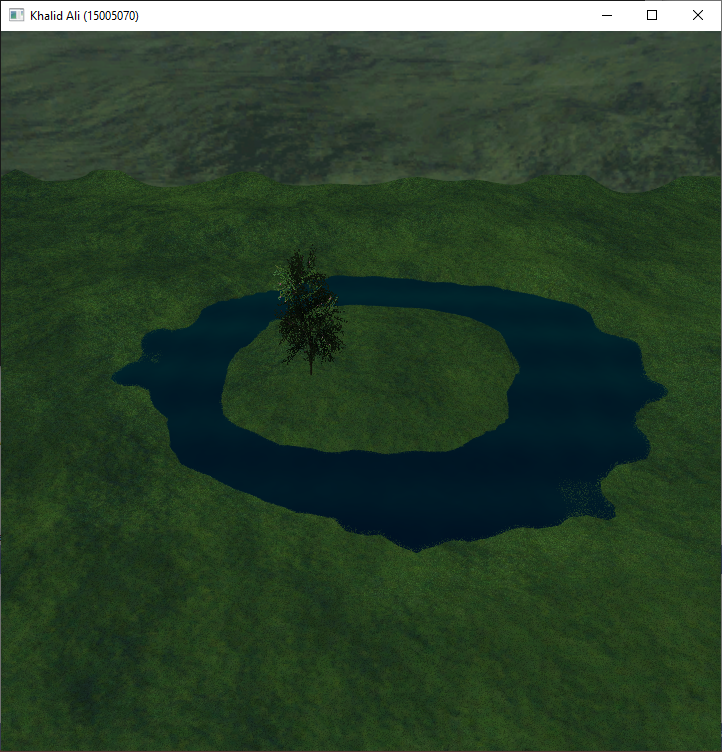
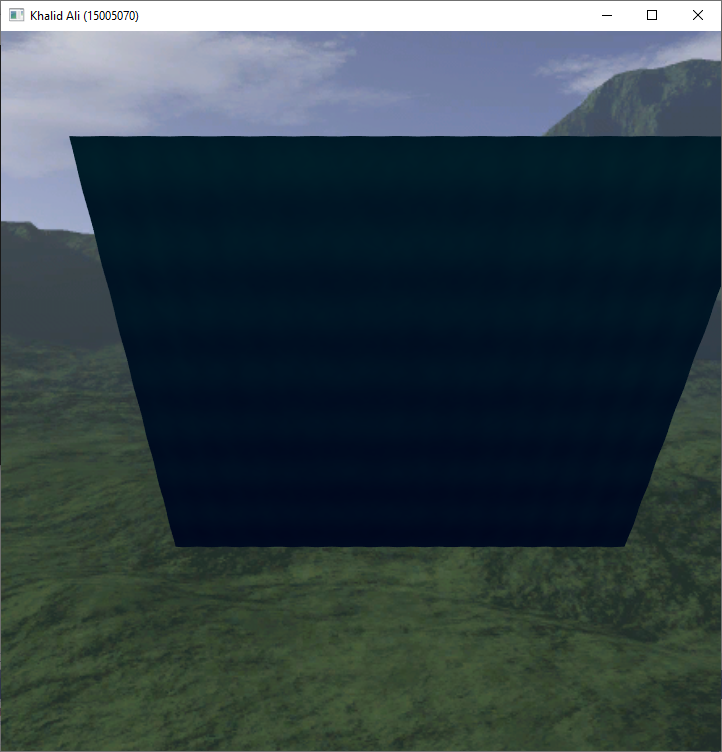
Water normal testing

diff --git a/Source/Scene.cpp b/Source/Scene.cpp
@@ -116,7 +116,7 @@ void Scene::constructTerrain(ID3D11Device* device, ID3D11DeviceContext* context)
 	Texture* waterNormalMap = new Texture(device, L"Resources\\Textures\\waves.dds");
 	ID3D11ShaderResourceView* waterTextureArray[] = { waterNormalMap->getShaderResourceView() };
 	water = new Grid(64, 64, device, oceanEffect, NULL, 0, waterTextureArray, 1);
-	water->setWorldMatrix(water->getWorldMatrix() * XMMatrixTranslation(-26, 0, -32));
+	water->setWorldMatrix(water->getWorldMatrix() * XMMatrixTranslation(-26, 0, -32) * XMMatrixRotationX(XMConvertToRadians(45)));
 	water->update(context);
 }
 
@@ -223,7 +223,7 @@ void Scene::renderFlares(ID3D11DeviceContext* context)
 
 void Scene::renderTerrain(ID3D11DeviceContext* context)
 {
-	if (ground)
+	/*if (ground)
 	{
 		for (int i = 0; i < numGrassPasses; i++)
 		{
@@ -234,7 +234,7 @@ void Scene::renderTerrain(ID3D11DeviceContext* context)
 	}
 
 	if (tree)
-		tree->render(context);
+		tree->render(context);*/
 
 	if (water)
 		water->render(context);
@@ -280,10 +280,10 @@ HRESULT Scene::initialiseSceneResources()
 	// Call scene object construct methods to build their effects, possible
 	// blend descriptions, and textures
 	constructSkybox(device, context);
-	constructFlares(device, context);
+	//constructFlares(device, context);
 	constructTerrain(device, context);
-	constructStructures(device, context);
-	constructParticleSystems(device, context);
+	//constructStructures(device, context);
+	//constructParticleSystems(device, context);
 
 	// Setup a camera
 	// The LookAtCamera is derived from the base Camera class. The constructor for the Camera class requires a valid pointer to the main DirectX device
